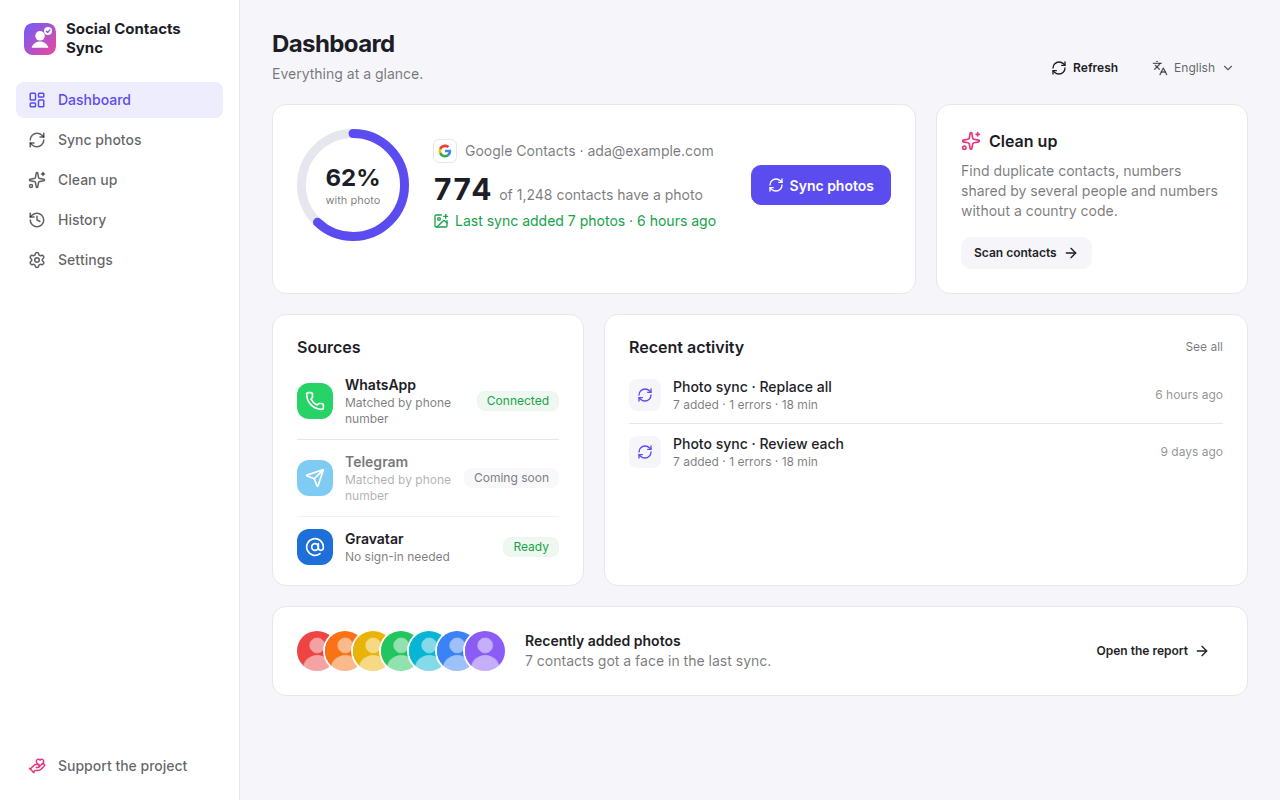
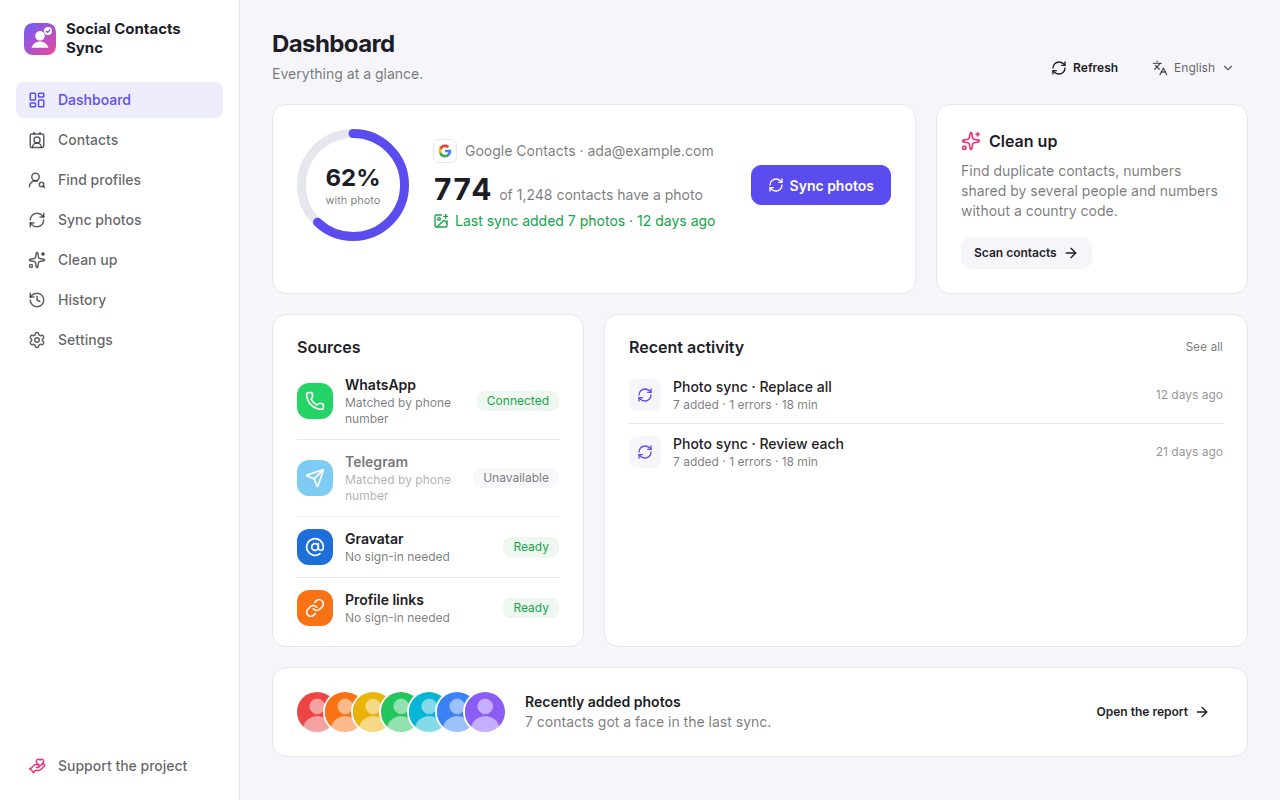
Refresh the README's screenshots, add the new pages and a CHANGELOG
Closes #69

Claude-Session: https://claude.ai/code/session_01YZdV8XTFsfbhe7gTvEQWwk

diff --git a/CHANGELOG.md b/CHANGELOG.md
@@ -1,0 +1,124 @@
+# Changelog
+
+What changed in each release of Social Contacts Sync. The packages are on the
+[releases page](https://github.com/easly1989/social-contacts-sync/releases).
+
+## 1.3.2 — 2026-10-15
+
+### Added
+
+- **Kept photos.** Keep a contact's photo and the app never replaces it: no
+  sync, in any mode, and no Find profiles. Links to WhatsApp and to social
+  profiles still work for that contact. Set it from the contact editor, a
+  row's menu on the Contacts page, or when uploading photos ("Placeholders" or
+  "Kept photos"); a filter lists them. ([#67](https://github.com/easly1989/social-contacts-sync/issues/67))
+- **Several profiles per contact.** Find profiles links Instagram, LinkedIn,
+  Facebook and the others to the same contact at once, and you pick which
+  profile's photo to use, if any. A contact that already has a real photo
+  keeps it unless you pick one. ([#65](https://github.com/easly1989/social-contacts-sync/issues/65))
+- **Review as a list, link in bulk.** *To review* shows every suggestion, one
+  card per contact; select contacts and link them in one go, in the background
+  at Google's pace, with progress and Stop. *One at a time* stays as a view,
+  with its keyboard shortcuts.
+- **When each source was last read.** Find profiles' Sources say when each
+  export was imported, each network searched and each login scan run. What's
+  read is kept in the data folder between sessions.
+
+### Changed
+
+- **Toasts** appear bottom right, in a card. Confirmations leave after two
+  seconds; errors stay until closed, with their detail and *Copy error*.
+- **Sources** in Find profiles are full-width rows instead of three columns,
+  and a scan that stopped shows why, with the site's own answer to copy.
+
+### Fixed
+
+- The Facebook login scan stopped at once: it now waits for Facebook's redirect
+  to the friends page, and the sites see a plain Chrome browser.
+- Instagram profile photos didn't show: they now come through the app, and an
+  expired address is read again from the profile.
+
+## 1.3.1 — 2026-10-15
+
+### Added
+
+- **Update progress.** Settings and the sidebar show the download of a new
+  version. Closing the app with an update ready asks: *Update and close* (with
+  the installer's progress window, and optionally opening the app again),
+  *Close without updating*, or *Cancel*. When it's installed, a small window
+  offers to open the app. Settings can also *Update and restart*.
+  ([#63](https://github.com/easly1989/social-contacts-sync/issues/63))
+- **Automatic updates** setting: on, a new version downloads as soon as it's
+  out; off, only after *Check for updates*.
+
+## 1.3.0 — 2026-10-15
+
+### Added
+
+- **Find profiles.** Suggests your contacts' social profiles from your own
+  Instagram and LinkedIn data exports, a public search by name on Bluesky,
+  Mastodon and GitHub, and, experimental, a slow scan of your own followers,
+  friends and connections with your Instagram, Facebook or LinkedIn login
+  (against those sites' terms). ([#61](https://github.com/easly1989/social-contacts-sync/issues/61))
+- **Sign in to Google again inside the app** when Google ends the sign-in, for
+  example after 7 days in "Testing", or after signing out.
+  ([#59](https://github.com/easly1989/social-contacts-sync/issues/59))
+
+### Changed
+
+- The setup wizard opens only on the first run; signing out and in again stays
+  in the app. WhatsApp can be linked from Settings.
+
+## 1.2.1 — 2026-10-07
+
+### Added
+
+- Every part of a contact's name is editable: prefix, middle name and suffix,
+  such as "Volley" after the comma. ([#57](https://github.com/easly1989/social-contacts-sync/issues/57))
+- A double click opens a contact; photos show larger on hover everywhere.
+
+## 1.2.0 — 2026-10-06
+
+### Added
+
+- **Contacts page.** Every Google contact in one list: edit every field (work,
+  birthday, addresses, notes, labels), add, duplicate, delete with undo, merge
+  and label them, add profile links, and upload photos by hand, one at a time
+  or many at once, matched by file name or number. A photo uploaded by hand is
+  a placeholder that the next sync replaces with a real one.
+  ([#55](https://github.com/easly1989/social-contacts-sync/issues/55))
+
+### Fixed
+
+- Contacts that kept their Google photo were reported as "No photo found".
+- Google's temporary errors (5xx) are retried, and reported in one line.
+- WhatsApp finds more contacts by their number.
+  ([#53](https://github.com/easly1989/social-contacts-sync/issues/53))
+
+## 1.1.0 — 2026-10-06
+
+### Added
+
+- **Profile links** as a photo source: the X, Telegram, YouTube, Bluesky,
+  Mastodon and GitHub profiles saved on a contact give it their public picture,
+  with no sign-in; Instagram, Facebook and LinkedIn optionally. Add a link from
+  a sync report's "No photo found" list or while reviewing.
+  ([#51](https://github.com/easly1989/social-contacts-sync/issues/51))
+
+## 1.0.0 — 2026-10-06
+
+The first stable release of the desktop app for Windows, Linux and macOS.
+
+- Photos from WhatsApp and Telegram (by phone number) and Gravatar (by email),
+  in the order you choose.
+- Fill in missing photos, replace them all, or review each one.
+- A report for every sync, with undo for one contact or the whole run, and CSV
+  export.
+- Clean up: duplicate contacts merged field by field, numbers shared by
+  different people, and numbers without a country code; every change backed up
+  and undoable.
+- A setup wizard for your own Google project; sign-ins kept encrypted with the
+  system keychain; automatic updates for the Windows installer and the AppImage.
+- English and Italian; light, dark or system theme.
+
+The `0.1.0-beta` releases before it were the betas of 1.0.0.

diff --git a/README.md b/README.md
@@ -66,8 +66,16 @@
 | Sync photos | Report and undo |
 |---|---|
 | ![Sync setup](docs/images/sync-setup.png) | ![Sync report](docs/images/sync-report.png) |
+| **Contacts** | **Edit every field, or keep a photo** |
+| ![Contacts](docs/images/contacts.png) | ![Contact editor](docs/images/contact-edit.png) |
+| **Find profiles** | **Where the profiles come from** |
+| ![Find profiles](docs/images/find-profiles.png) | ![Find profiles sources](docs/images/find-profiles-sources.png) |
+| **Add a profile link from a report** | **Updates with progress** |
+| ![Add a profile link](docs/images/report-add-link.png) | ![Update ready](docs/images/updates.png) |
 | **Clean up duplicates** | **Setup wizard** |
 | ![Clean up](docs/images/cleanup.png) | ![Google project setup](docs/images/setup-google.png) |
+
+What changed in each version: [CHANGELOG](CHANGELOG.md).
 
 <p align="center">
     <img src="docs/images/dashboard-dark.png" alt="Dark theme" width="560"/>
